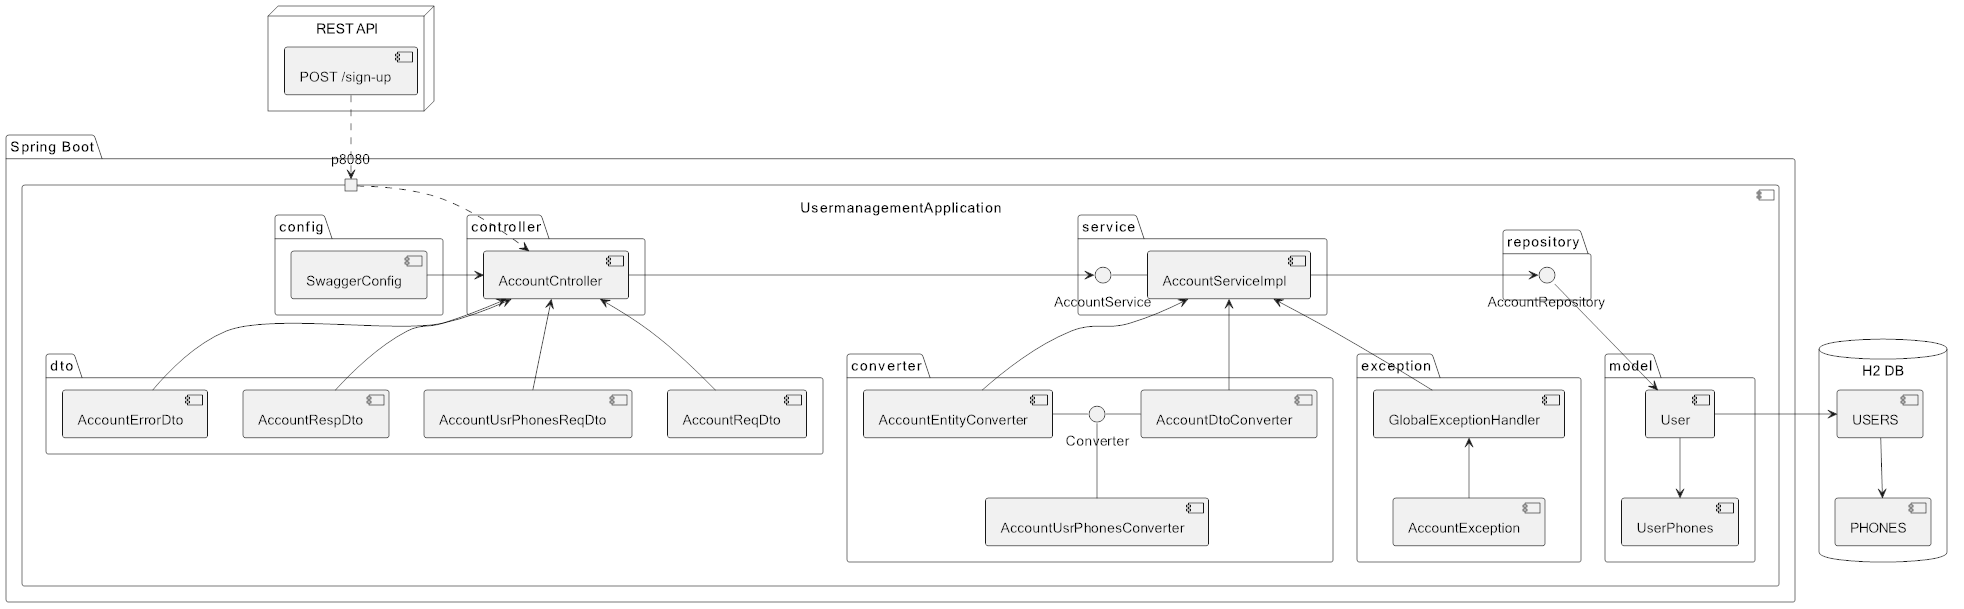
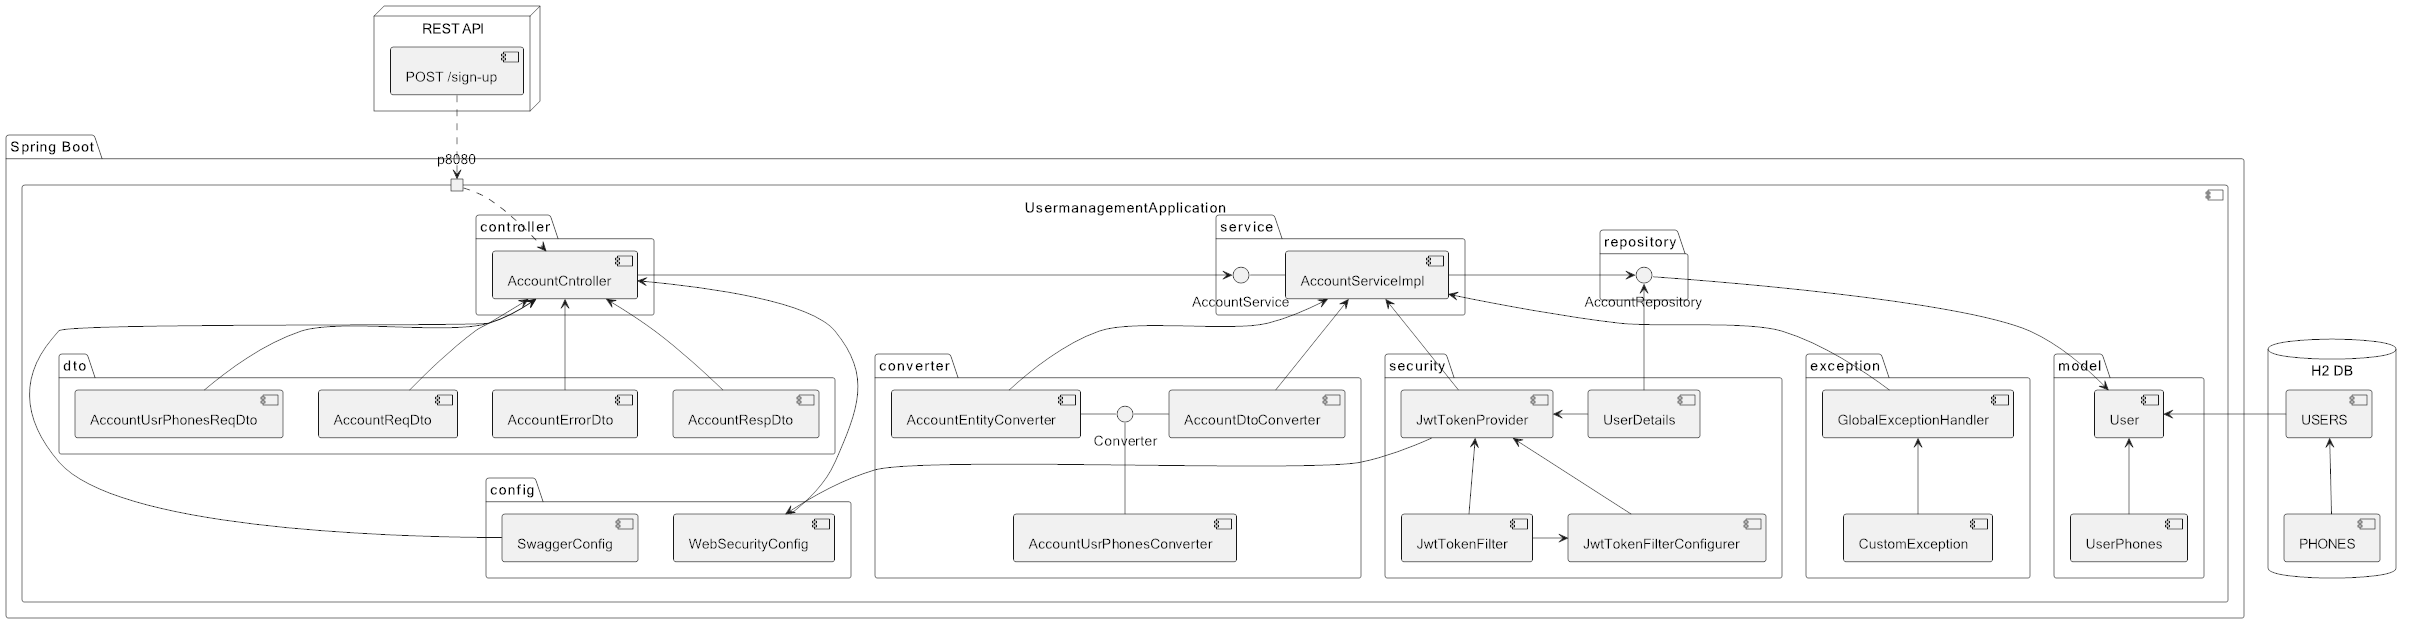
Diagrams update

Changed region(s): [[0.0, 0.1872, 0.9939, 0.9672], [0.1242, 0.0, 0.2174, 0.1872]]

diff --git a/diagrams/Diagrama de Componentes UML2.md b/diagrams/Diagrama de Componentes UML2.md
@@ -10,8 +10,7 @@ package "Spring Boot" {
 		port p8080
 
 		folder "model" {
-			[User]
-			[User] -down-> [UserPhones]
+			[User] <-down- [UserPhones]
 		}
 
 		folder "repository" {
@@ -26,7 +25,7 @@ package "Spring Boot" {
 		}
 
 		folder "exception" {
-			[GlobalExceptionHandler] <-down- [AccountException]
+			[GlobalExceptionHandler] <-down- [CustomException]
 		}
 
 		folder "service" {
@@ -34,9 +33,11 @@ package "Spring Boot" {
 			[AccountServiceImpl] -left- ACS
 		}
 
-		folder "controller" {
-			interface "AccountService" AS ACS
-			[AccountCntroller] -right-> ACS
+		folder "security" {
+			[JwtTokenFilter]
+			[JwtTokenFilterConfigurer]
+			[JwtTokenProvider]
+			[UserDetails]
 		}
 
 		folder "dto" {
@@ -46,29 +47,48 @@ package "Spring Boot" {
 			[AccountErrorDto]
 		}
 		
+		folder "controller" {
+			interface "AccountService" AS ACS
+			[AccountCntroller] -right-> ACS
+		}
+		
 		folder "config" {
 			[SwaggerConfig]
+			[WebSecurityConfig]
 		}
 	}
 }
 
 database "H2 DB" {
-    [USERS]
-	[USERS] -down-> [PHONES]
+	[USERS] <-down- [PHONES]
 }
 
 [POST /sign-up] .down.> p8080
 [AccountCntroller] <.up. p8080
+
+[JwtTokenProvider] -down-> [WebSecurityConfig]
+[JwtTokenProvider] <-down- [JwtTokenFilter]
+[JwtTokenProvider] <-down- [JwtTokenFilterConfigurer]
+[JwtTokenFilter] -right-> [JwtTokenFilterConfigurer]
+
+[UserDetails] -right-> [JwtTokenProvider]
+[UserDetails] -left-> AccountRepository
+
 [SwaggerConfig] -left-> [AccountCntroller]
+[WebSecurityConfig] -up-> [AccountCntroller]
+
 [AccountCntroller] <-down- [AccountReqDto]
 [AccountCntroller] <-down- [AccountUsrPhonesReqDto]
 [AccountCntroller] <-down- [AccountRespDto]
 [AccountCntroller] <-down- [AccountErrorDto]
+
+[AccountServiceImpl] <-down- [JwtTokenProvider]
 [AccountServiceImpl] <-down- [AccountDtoConverter]
 [AccountServiceImpl] <-down- [AccountEntityConverter]
 [AccountServiceImpl] <-down- [GlobalExceptionHandler]
 [AccountServiceImpl] -left-> AccountRepository
+
 AccountRepository -down-> [User]
-[User] -left-> [USERS]
+[User] <-left- [USERS]
 
 @enduml
